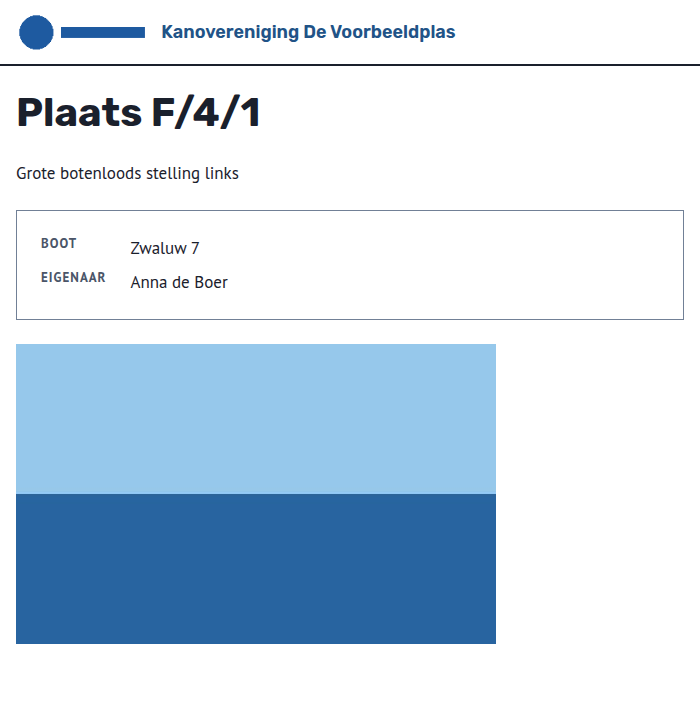
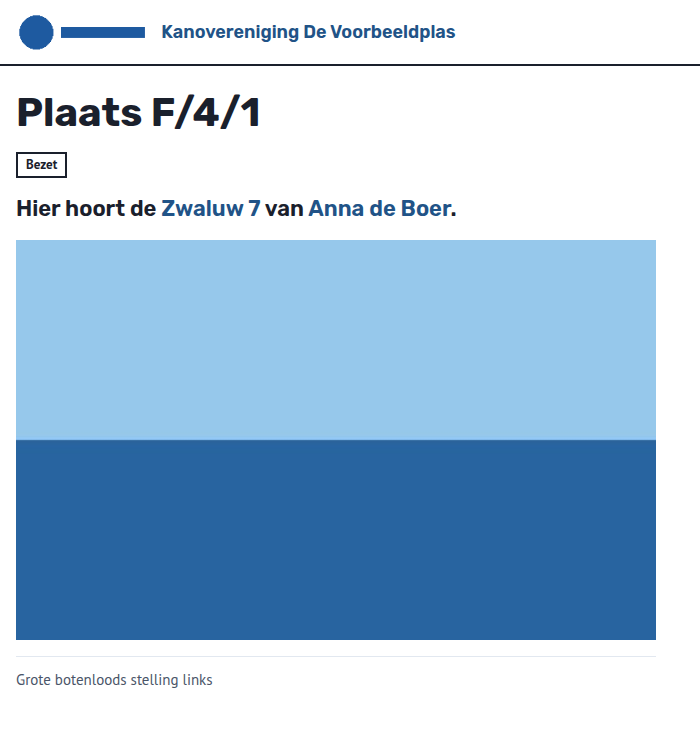
Blok 2 van het nieuwe ontwerp: openbare plaatspagina (issue #150 deel 2, BV-45, BV-59) (#171)
Variant C "Antwoord eerst": label met de toestand, de zin "Hier hoort de
<boot> van <eigenaar>.", foto en de omschrijving van het rek zonder label.
Logo zonder link, geen skiplink, menu of zoekveld op deze pagina. Een
clubplaats zonder boot toont "Clubplaats" en "Deze plaats is voor een
clubboot." (BV-59); openbaar() levert daarvoor het veld clubplaats.
Leidend ontwerp: designsystem ade1952, getoetst door Design System.

Tests: unit 985 geslaagd, E2E 41 geslaagd, 0 overgeslagen.
Review: Sentinel, akkoord.

diff --git a/app/web/templates/openbaar.html b/app/web/templates/openbaar.html
@@ -1,22 +1,29 @@
 {% extends "base.html" %}
-{# Openbaar: alleen plaatscode, omschrijving van het rek, boot, foto en naam van de eigenaar. Geen log (BLB-020, BLB-025). #}
+{# Openbaar: alleen plaatscode, omschrijving van het rek, boot, foto en naam van de eigenaar. Geen log (BLB-020, BLB-025).
+   Antwoord eerst (BV-45): de kop heeft geen link, skiplink of menu, want er is niets over te slaan. #}
 {% block csrf %}{% endblock %}
+{% block skiplink %}{% endblock %}
+{% block menu %}{% endblock %}
+{% block logo %}<span class="dj-logo">{% if logo %}<img class="bl-logo" src="{{ url_for('web.logo', kenmerk=logo) }}" alt="">{% endif %}{{ vereniging }}</span>{% endblock %}
 {% block titel %}{{ 'Plaats ' ~ plaats.code if plaats else 'Niet gevonden' }} · {{ vereniging }}{% endblock %}
 {% block inhoud %}
 {% if not plaats %}
+<div class="bl-plaats">
 <h1>Deze pagina bestaat niet</h1>
 <p>Controleer de link of scan de QR-code opnieuw.</p>
+</div>
 {% else %}
+<div class="bl-plaats{% if plaats.foto %} bl-plaats--foto{% endif %}">
 <h1>Plaats {{ plaats.code }}</h1>
-{% if plaats.omschrijving %}<p>{{ plaats.omschrijving }}</p>{% endif %}
-{% if plaats.vrij %}
-<p>Deze plaats is vrij.</p>
-{% else %}
-<dl class="dj-dl kaart">
-  <dt>Boot</dt><dd>{{ plaats.boot }}</dd>
-  <dt>Eigenaar</dt><dd>{{ vereniging if plaats.clubboot else plaats.eigenaar }}</dd>
-</dl>
-{% if plaats.foto %}<img class="foto" src="{{ url_for('web.afbeelding', sleutel=plaats.foto) }}" alt="Foto van {{ plaats.boot }}">{% endif %}
-{% endif %}
+{% if plaats.clubboot or plaats.clubplaats %}<span class="ds-tag">Clubplaats</span>
+{% elif plaats.vrij %}<span class="ds-tag bl-tag--vrij">Vrij</span>
+{% else %}<span class="ds-tag">Bezet</span>{% endif %}
+{% if plaats.vrij and plaats.clubplaats %}<p class="bl-zin">Deze plaats is voor een clubboot.</p>
+{% elif plaats.vrij %}<p class="bl-zin">Deze plaats is vrij.</p>
+<p class="bl-vraag">Wil je een plaats in de loods? Vraag het de beheerder van de botenloods.</p>
+{% else %}<p class="bl-zin">Hier hoort de <strong>{{ plaats.boot }}</strong> van <strong>{{ vereniging if plaats.clubboot else plaats.eigenaar }}</strong>.</p>{% endif %}
+{% if plaats.foto %}<img class="bl-plaatsfoto" src="{{ url_for('web.afbeelding', sleutel=plaats.foto) }}" alt="Foto van {{ plaats.boot }}">{% endif %}
+{% if plaats.omschrijving %}<p class="bl-rekregel">{{ plaats.omschrijving }}</p>{% endif %}
+</div>
 {% endif %}
 {% endblock %}

diff --git a/app/web/static/stijl.css b/app/web/static/stijl.css
@@ -133,6 +133,22 @@ td form { gap: var(--space-2); }
   .bl-kop .dj-logo { gap: var(--space-3); font: var(--type-subheading); }
 }
 
+/* Openbare plaatspagina (blok 2, BV-45), uit blok-2/schermen.css van het designsystem (ade1952): de zin eerst, daarna foto en rekregel.
+   Zonder foto een smalle kolom; vanaf 60rem staat de foto naast de zin, en de rij onder de zin neemt de overige hoogte. */
+.bl-plaats { display: grid; gap: var(--space-4); max-width: 40rem; }
+.bl-plaats > * { min-width: 0; margin-block: 0; }
+.bl-tag--vrij { border-color: var(--success); background: var(--success-tint); color: var(--success); }
+.bl-zin { font: var(--type-heading); }
+.bl-zin strong { color: var(--brand); font-weight: inherit; }
+.bl-plaatsfoto { display: block; width: 100%; max-height: 32rem; object-fit: contain; border-radius: var(--radius-surface); }
+.bl-vraag { padding: var(--space-3) var(--space-4); border-left: var(--stroke-4) solid var(--brand); background: var(--accent-tint); font: var(--type-body-sm); }
+.bl-rekregel { padding-top: var(--space-3); border-top: var(--stroke-1) solid var(--line); color: var(--ink-muted); font: var(--type-body-sm); }
+@media (width >= 60rem) {
+  .bl-plaats--foto { grid-template-columns: minmax(0, 1fr) minmax(0, 1fr); grid-template-rows: repeat(3, auto) 1fr; align-items: start; column-gap: var(--space-6); max-width: none; }
+  .bl-plaats--foto > * { grid-column: 1; }
+  .bl-plaats--foto > .bl-plaatsfoto { grid-column: 2; grid-row: 1 / span 4; }
+}
+
 /* Kaartjes (BLB-021, ADR-011): acht per A4, twee kolommen van 95 mm bij vier rijen van 68 mm,
    binnen een marge van 10 mm. De stippellijn is de snijlijn. Een blad is één A4. Altijd licht. */
 @page { size: A4; margin: 10mm; }

diff --git a/app/web/templates/base.html b/app/web/templates/base.html
@@ -13,11 +13,11 @@
   <link rel="stylesheet" href="{{ url_for('static', filename='stijl.css') }}">
 </head>
 <body>
-  <a class="dj-skip sla-over" href="#inhoud">Naar de inhoud</a>
+  {% block skiplink %}<a class="dj-skip sla-over" href="#inhoud">Naar de inhoud</a>{% endblock %}
   <header class="dj-header bl-kop">
     <div class="dj-container dj-header__bar">
-      <a class="dj-logo" href="{{ url_for('web.start') }}">{% if logo %}<img class="bl-logo" src="{{ url_for('web.logo', kenmerk=logo) }}" alt="">{% endif %}{{ vereniging }}</a>
-      {% if g.beheerder %}
+      {% block logo %}<a class="dj-logo" href="{{ url_for('web.start') }}">{% if logo %}<img class="bl-logo" src="{{ url_for('web.logo', kenmerk=logo) }}" alt="">{% endif %}{{ vereniging }}</a>{% endblock %}
+      {% block menu %}{% if g.beheerder %}
       {# De groepen van BV-42; de volgorde binnen een groep is die van het ontwerp, de namen zijn ongewijzigd. #}
       {% set menu = [
         ("Dagelijks", [("web.rekoverzicht", "Rekoverzicht"), ("web.indeling_overzicht", "Indeling"), ("web.vrije_plaatsen", "Vrije plaatsen"),
@@ -49,7 +49,7 @@
           {% endfor %}
         </nav>
       </details>
-      {% endif %}
+      {% endif %}{% endblock %}
     </div>
   </header>
   <main class="dj-container bl-main" id="inhoud">

diff --git a/tests/unit/test_openbaar_pagina.py b/tests/unit/test_openbaar_pagina.py
@@ -1,0 +1,111 @@
+"""Blok 2 van het nieuwe ontwerp (issue #150, BV-45): de openbare plaatspagina, antwoord eerst.
+Elke toestand heeft een label en een zin; kop zonder link, skiplink en menu; invoer blijft geëscapet."""
+
+import pytest
+
+from app.domein import CLI, boten, toewijzing
+from app.models import db
+from tests.unit.hulp import beheerder_met_wachtwoord, lid, plaats, png
+from tests.unit.test_web import inloggen
+
+VRAAG = "Wil je een plaats in de loods?"
+
+
+def pagina(client, p):
+    return client.get(f"/p/{p.publieke_sleutel}").text
+
+
+def bezet(code="A/1/1", boot="Zeemeeuw", eigenaar="Anna de Vries", club=False, foto=None):
+    p = plaats(code, club=club)
+    eigenaar_id = None if club else lid(naam=eigenaar).id
+    toewijzing.toewijzen(p.id, boten.boot_aanmaken(boot, 1, eigenaar_id, foto, CLI).id, CLI)
+    return p
+
+
+def rekregel(p, tekst):
+    p.rek.omschrijving = tekst
+    db.session.commit()
+
+
+def test_bezet_label_zin_en_foto(client):
+    # Mutant: een andere zin, een boot of eigenaar buiten <strong>, of de foto weglaten valt hier.
+    html = pagina(client, bezet(foto=png()))
+    assert "<h1>Plaats A/1/1</h1>" in html
+    assert '<span class="ds-tag">Bezet</span>' in html
+    assert 'Hier hoort de <strong>Zeemeeuw</strong> van <strong>Anna de Vries</strong>.' in html
+    assert 'class="bl-plaatsfoto"' in html and 'alt="Foto van Zeemeeuw"' in html
+    assert "bl-plaats bl-plaats--foto" in html
+    assert VRAAG not in html and "bl-tag--vrij" not in html
+
+
+def test_bezet_zonder_foto_geen_img_en_geen_fotokolom(client):
+    # Mutant: de img of de modifier ook zonder foto zetten valt hier.
+    html = pagina(client, bezet())
+    assert "<img" not in html.split("<main", 1)[1] and "bl-plaats--foto" not in html
+
+
+def test_clubboot_is_clubplaats_met_de_vereniging_als_eigenaar(client):
+    # Mutant: het label Bezet bij een clubboot, of de naam van het lid i.p.v. de vereniging, valt hier.
+    html = pagina(client, bezet(club=True))
+    assert '<span class="ds-tag">Clubplaats</span>' in html
+    assert 'Hier hoort de <strong>Zeemeeuw</strong> van <strong>Botenloods</strong>.' in html
+    assert VRAAG not in html
+
+
+def test_vrije_plaats_label_zin_en_vraag(client):
+    # Mutant: de vraag weglaten of het label zonder bl-tag--vrij valt hier.
+    html = pagina(client, plaats())
+    assert '<span class="ds-tag bl-tag--vrij">Vrij</span>' in html
+    assert "Deze plaats is vrij." in html and "Hier hoort" not in html
+    assert f'<p class="bl-vraag">{VRAAG} Vraag het de beheerder van de botenloods.</p>' in html
+    assert "<img" not in html.split("<main", 1)[1]
+
+
+def test_vrije_clubplaats_zegt_dat_ze_voor_een_clubboot_is(client):
+    # Besluit stakeholder 2026-11-07. Mutant: de vlag clubplaats negeren geeft "Vrij" en de vraag.
+    html = pagina(client, plaats(club=True))
+    assert '<span class="ds-tag">Clubplaats</span>' in html
+    assert "Deze plaats is voor een clubboot." in html
+    assert VRAAG not in html and "Deze plaats is vrij." not in html and "bl-tag--vrij" not in html
+
+
+def test_rekregel_zonder_label_en_alleen_met_omschrijving(client):
+    # Mutant: een label "Rek" ervoor, of een lege regel zonder omschrijving, valt hier.
+    p = plaats()
+    assert "bl-rekregel" not in pagina(client, p)
+    rekregel(p, "Stelling links")
+    assert '<p class="bl-rekregel">Stelling links</p>' in pagina(client, p)
+
+
+def test_kop_zonder_link_skiplink_menu_en_zoekveld(client):
+    # Mutant: de skiplink, het menu of de link om het logo terugzetten valt hier.
+    p = plaats()
+    _b, geheim = beheerder_met_wachtwoord()
+    anoniem = pagina(client, p)
+    inloggen(client, geheim)
+    ingelogd = pagina(client, p)
+    for html in (anoniem, ingelogd):
+        kop = html.split("<header", 1)[1].split("</header>", 1)[0]
+        assert "<a " not in kop and '<span class="dj-logo">' in kop
+        assert "dj-skip" not in html and "<details" not in html and "<nav" not in html
+        assert "<input" not in html and "<form" not in html
+        assert 'id="inhoud"' in html
+    assert "dj-skip" in client.get("/").text and "<details" in client.get("/").text  # elders ongewijzigd
+
+
+@pytest.mark.parametrize("veld", ["boot", "eigenaar", "omschrijving"])
+def test_invoer_wordt_geescaped(client, veld):
+    # Mutant: |safe op boot, eigenaar of omschrijving valt hier.
+    p = bezet(boot="<b>x</b>" if veld == "boot" else "Zeemeeuw",
+              eigenaar="<b>x</b>" if veld == "eigenaar" else "Anna de Vries")
+    rekregel(p, "<b>x</b>" if veld == "omschrijving" else "Stelling")
+    html = pagina(client, p)
+    assert "<b>x</b>" not in html and "&lt;b&gt;x&lt;/b&gt;" in html
+
+
+def test_onbekende_plaats_geeft_404_met_uitleg(client):
+    r = client.get("/p/bestaatniet")
+    assert r.status_code == 404
+    assert "<h1>Deze pagina bestaat niet</h1>" in r.text
+    assert "Controleer de link of scan de QR-code opnieuw." in r.text
+    assert "dj-skip" not in r.text and '<span class="dj-logo">' in r.text

diff --git a/tests/e2e/test_loods.py b/tests/e2e/test_loods.py
@@ -152,6 +152,9 @@ def test_indeling_boot_toewijzen_log_en_openbare_pagina(page):
     expect(page.get_by_text(bootnaam)).to_be_visible()
     expect(page.get_by_text(prive["naam"], exact=True)).to_be_visible()
     expect(page.get_by_role("img", name=f"Foto van {bootnaam}")).to_be_visible()
+    expect(page.locator("span.ds-tag")).to_have_text("Bezet")
+    expect(page.locator("p.bl-zin")).to_have_text(f"Hier hoort de {bootnaam} van {prive['naam']}.")
+    expect(page.locator("header a, header details, header input, .dj-skip")).to_have_count(0)  # BV-45: logo zonder link
     expect(page.locator("section.log")).to_have_count(0)
     html = page.content()
     for veld in ("lidnummer", "adres", "telefoon", "email"):
@@ -159,6 +162,7 @@ def test_indeling_boot_toewijzen_log_en_openbare_pagina(page):
 
     page.goto("/p/bestaatniet")
     expect(page.get_by_role("heading", level=1)).to_have_text("Deze pagina bestaat niet")
+    expect(page.locator("header a, .dj-skip")).to_have_count(0)
     page.goto("/indeling")
     expect(page).to_have_url(re.compile(r"/inloggen$"))
 
@@ -217,6 +221,12 @@ def test_plaats_wijzigen_vrijgeven_en_clubplaats(page):
     expect(page.get_by_text("De plaats is opgeslagen.")).to_be_visible()
     toewijzen_buiten_lijst(page, code, bootnaam)
     expect(page.get_by_role("alert")).to_contain_text("is een clubplaats en alleen voor clubboten")
+
+    # De vrije clubplaats zegt dat ze voor een clubboot is, zonder de vraag voor wie een plaats wil.
+    page.goto(openbare_link)
+    expect(page.locator("span.ds-tag")).to_have_text("Clubplaats")
+    expect(page.locator("p.bl-zin")).to_have_text("Deze plaats is voor een clubboot.")
+    expect(page.locator("p.bl-vraag")).to_have_count(0)
 
 
 def test_boot_wijzigen_en_weigeren_met_log(page):

diff --git a/tests/unit/test_web_beheer.py b/tests/unit/test_web_beheer.py
@@ -241,7 +241,7 @@ def test_omschrijving_op_openbare_pagina_plaatsdetail_en_kaartje(ingelogd, clien
     p = bezette_plaats()
     ingelogd.post(f"/rekken/{p.rek_id}/naam", data={"naam": "A", "omschrijving": "Stelling <b>links</b>"})
     openbaar = client.get(f"/p/{p.publieke_sleutel}").text
-    assert "<p>Stelling &lt;b&gt;links&lt;/b&gt;</p>" in openbaar
+    assert '<p class="bl-rekregel">Stelling &lt;b&gt;links&lt;/b&gt;</p>' in openbaar
     assert "Stelling &lt;b&gt;links&lt;/b&gt;" in ingelogd.get(f"/plaatsen/{p.id}").text
     kaartje = ingelogd.get(f"/kaartjes/print?plaats={p.id}").text
     assert "Stelling" not in kaartje
@@ -250,7 +250,7 @@ def test_omschrijving_op_openbare_pagina_plaatsdetail_en_kaartje(ingelogd, clien
 
 def test_zonder_omschrijving_geen_lege_regel(ingelogd, client):
     p = bezette_plaats()
-    assert "<p></p>" not in client.get(f"/p/{p.publieke_sleutel}").text
+    assert "bl-rekregel" not in client.get(f"/p/{p.publieke_sleutel}").text
 
 
 def test_openbare_pagina_zet_geen_sessiecookie(client):

diff --git a/tests/unit/test_indeling_en_toewijzing.py b/tests/unit/test_indeling_en_toewijzing.py
@@ -261,12 +261,12 @@ def test_lid_met_opzegdatum_in_de_toekomst_krijgt_een_plaats(app):
 def test_openbaar_geeft_alleen_openbare_velden(app):
     p = plaats()
     assert indeling.openbaar(p.publieke_sleutel) == {
-        "code": "A/1/1", "omschrijving": "", "vrij": True, "clubboot": False, "boot": None, "foto": None,
+        "code": "A/1/1", "omschrijving": "", "vrij": True, "clubboot": False, "clubplaats": False, "boot": None, "foto": None,
         "eigenaar": None}
     b = boot(lid().id, foto=png())
     toewijzing.toewijzen(p.id, b.id, CLI)
     assert indeling.openbaar(p.publieke_sleutel) == {
-        "code": "A/1/1", "omschrijving": "", "vrij": False, "clubboot": False, "boot": "Zeemeeuw",
+        "code": "A/1/1", "omschrijving": "", "vrij": False, "clubboot": False, "clubplaats": False, "boot": "Zeemeeuw",
         "foto": b.afbeelding.sleutel, "eigenaar": "Anna de Vries"}
     assert indeling.openbaar("bestaatniet") is None
 

diff --git a/app/domein/indeling.py b/app/domein/indeling.py
@@ -544,6 +544,7 @@ def openbaar(publieke_sleutel):
     opgehaald, kan ook niet in de pagina terechtkomen. None als de plaats niet bestaat.
 
     eigenaar is None bij een vrije plaats en bij een clubboot (dan de naam van de vereniging).
+    clubplaats volgt Plaats.is_clubplaats, ook als de plaats vrij is.
     """
     p = db.session.scalar(select(Plaats).where(Plaats.publieke_sleutel == publieke_sleutel))
     if p is None:
@@ -554,6 +555,7 @@ def openbaar(publieke_sleutel):
         "omschrijving": p.rek.omschrijving,
         "vrij": boot is None,
         "clubboot": boot is not None and boot.lid_id is None,
+        "clubplaats": p.is_clubplaats,
         "boot": boot.naam if boot else None,
         "foto": boot.afbeelding.sleutel if boot and boot.afbeelding else None,
         "eigenaar": boot.lid.naam if boot and boot.lid else None,

diff --git a/werk/terugblik/2026-11-07-prism-150-blok2.md b/werk/terugblik/2026-11-07-prism-150-blok2.md
@@ -1,0 +1,30 @@
+# Terugblik Prism, blok 2 van #150 (openbare plaatspagina, BV-45)
+
+Datum: 2026-11-07. Taak: de herziene pagina `/p/<sleutel>` bouwen volgens designsystem `ade1952`, met de clubplaats als besluit van de stakeholder.
+
+## Wat ging goed
+
+- De opdracht noemde de besluiten, de te raken bestanden en de omgeving vooraf. Daardoor was er geen vraag nodig.
+- Het README van blok 2 had eisen en E2E-asserts in één tabel; elke eis werd één unittest met een mutant.
+- De baseline op `main` vóór de eerste wijziging gaf één bekende rode test: `test_inloggen.py::test_vergrendeling_na_vijf_foute_wachtwoorden` (strict mode: twee `role=alert`, los van deze wijziging).
+
+## Wat kon beter
+
+- De baseline draaide ruim 15 minuten, en in die tijd kon ik de gemounte werkmap niet wijzigen. Ik heb de tijd gebruikt voor het schrijven van de unittests, maar een aparte worktree had dat sneller gemaakt.
+- Het screenshotscript maakt alle 30 afbeeldingen opnieuw; 7 moesten terug met `git checkout`.
+
+## Wat deed ik zelf goed
+
+- Een mutant per eis, met een script dat bind mounts gebruikt, zodat de draaiende stack niet geraakt werd. Eén mutant (`clubboot-label-bezet`) bleek gelijkwaardig: een clubboot ligt altijd op een clubplaats. Dat is erkend en niet als dekking geteld.
+- De foto-variant gecontroleerd op 360 en 1280 pixels met een tijdelijke afbeelding in de lokale database, daarna teruggezet en gecontroleerd.
+
+## Wat heb ik onderweg zelf verbeterd
+
+- `base.html` kreeg drie blokken (`skiplink`, `logo`, `menu`) in plaats van een voorwaarde op het eindpunt, zodat alleen `openbaar.html` ze overschrijft en andere schermen ongewijzigd blijven; een test borgt dat de skiplink en het menu elders blijven.
+- De 404-pagina kreeg dezelfde kop en `bl-plaats`-wrapper als de preview.
+
+## Wat kan structureel beter in de opdracht of de afspraken
+
+- Zet in de opdracht: "Een E2E-baseline op `main` blokkeert de werkmap tot ze klaar is (circa 15 minuten); noem of de bouwer een worktree of de wachttijd moet gebruiken."
+- Zet in de opdracht: "Noem hoe de bouwer een foto aan een plaats koppelt voor een visuele controle: de lokale seed bevat geen bezette plaats met foto, en de afbeeldingssleutel is hoogstens 16 tekens."
+- Zet in de afspraken: "`documentatie/gebruikers/schermafbeeldingen.sh` maakt alle afbeeldingen opnieuw; de opdracht noemt de enige afbeelding die mag blijven."

diff --git a/werk/terugblik/2026-11-07-sentinel-150-blok2.md b/werk/terugblik/2026-11-07-sentinel-150-blok2.md
@@ -1,0 +1,21 @@
+# Terugblik Sentinel, review blok 2 van issue #150 (openbare plaatspagina)
+
+Datum: 2026-11-07. Taak: review van de gestagede diff op `feature/150-blok2`.
+
+## Wat ging goed
+- De eisen in `blok-2/README.md` (eis 1 tot 5) en BV-59 waren concreet genoeg om elke regel van het sjabloon tegen af te vinken.
+- De mutantspecificaties van de bouwer waren direct herbruikbaar; met een bind mount waren zeven mutanten in een paar minuten gedraaid.
+- Unitsuite (985 geslaagd), ruff en de volledige E2E-run (41 geslaagd) liepen zonder storing.
+
+## Wat kon beter
+- Ik wachtte eerst op een melding van de monitor. Mijn `pgrep -f "tests/e2e/draai.sh"` trof ook de opdrachtregel van de monitor zelf, dus de wachtlus eindigde nooit. Daardoor verloor ik ongeveer tien minuten.
+
+## Wat deed ik zelf goed
+- Naast de mutanten van de bouwer heb ik drie eigen mutanten gedraaid: het csrf-blok terug, een lege `alt` en de vraag bij een bezette plaats. Alle drie vallen. De eerste valt alleen in `test_web_beheer.py`, dus ik draaide hem bewust tegen beide bestanden.
+- De selectie van de E2E-scenario's vooraf gecontroleerd met `--collect-only` (drie tests, één extra openbare-paginatest).
+
+## Wat heb ik onderweg zelf verbeterd
+- Na de aanwijzing van de regie heb ik gestopt met wachten op meldingen en het logbestand zelf gelezen.
+
+## Wat kan structureel beter in de opdracht of de afspraken
+- Zet in de opdracht: wacht op een achtergrondrun met het uitvoerbestand van de taak of met `pgrep -fx`, nooit met `pgrep -f <script>` in een lus, want die vindt zijn eigen opdrachtregel.

diff --git a/documentatie/gebruikers/handleiding.md b/documentatie/gebruikers/handleiding.md
@@ -212,7 +212,7 @@ De QR-code opent de openbare pagina van de plaats. Krijgt het rek een andere naa
 
 ## De openbare pagina
 
-Elke plaats heeft een openbare pagina op `/p/` met een lange, niet te raden sleutel. Je vindt de link op de pagina van de plaats, onder **Openbare pagina**. Wie de link opent, hoeft niet in te loggen en ziet de aanduiding van de plaats, de omschrijving van het rek en of de plaats vrij is, of anders de boot, de eigenaar (bij een clubboot de vereniging) en de foto. Er is geen zoekfunctie en er staan geen adresgegevens op. De pagina gebruikt de naam en het logo van de vereniging.
+Elke plaats heeft een openbare pagina op `/p/` met een lange, niet te raden sleutel. Je vindt de link op de pagina van de plaats, onder **Openbare pagina**. Wie de link opent, hoeft niet in te loggen. De pagina begint met de aanduiding van de plaats en een label: **Bezet**, **Clubplaats** of **Vrij**. Daaronder staat de zin "Hier hoort de boot van eigenaar", bij een clubboot met de vereniging als eigenaar, met de foto van de boot ernaast of eronder. Een vrije plaats zegt dat ze vrij is en wijst wie een plaats wil naar de beheerder. Een vrije clubplaats zegt dat ze voor een clubboot is. Onderaan staat de omschrijving van het rek, als die er is. Er is geen zoekfunctie, geen menu en geen link vanaf het logo, en er staan geen adresgegevens op. De pagina gebruikt de naam en het logo van de vereniging.
 
 ![De openbare pagina van een plaats met boot, eigenaar en foto.](afbeeldingen/openbaar.png)
 

diff --git a/docs/architecture/adr/ADR-003-plaatsen-stabiele-identiteit.md b/docs/architecture/adr/ADR-003-plaatsen-stabiele-identiteit.md
@@ -88,7 +88,7 @@ Migratie `0013` volgt op `0012` en is de enige head. Upgrade: trek DELETE op `ve
 - Het rekoverzicht (BLB-044) toont per rek zoveel kolommen als het hoogste vaknummer en zoveel verdiepingen als de hoogste verdieping met een plaats. De CSP staat geen inline `style` toe, dus het aantal kolommen is een CSS-klasse (`raster-rek-1` tot en met `raster-rek-12`).
 - Een bezoeker kan een plaats niet op aanduiding opzoeken. Dat is besloten: de openbare pagina is alleen via de QR-link te openen (intake, besluit stakeholder 2026-10-30).
 - Een publieke sleutel opnieuw genereren is bewust geen functie. Is een sleutel ooit ongewenst bekend, dan is dat geen probleem: de pagina is openbaar.
-- De openbare pagina gebruikt een eigen leesfunctie die alleen de aanduiding, de omschrijving van het rek, bootnaam, foto-URL en naam van de eigenaar (of de naam van de vereniging bij een clubboot) ophaalt. De E2E-test controleert het volledige antwoord op afwezigheid van adres, telefoon, e-mail en lidnummer.
+- De openbare pagina gebruikt een eigen leesfunctie die alleen de aanduiding, de omschrijving van het rek, bootnaam, foto-URL, naam van de eigenaar (of de naam van de vereniging bij een clubboot) en de vlag clubplaats ophaalt. De E2E-test controleert het volledige antwoord op afwezigheid van adres, telefoon, e-mail en lidnummer.
 - Foto's op de openbare pagina hebben een eigen willekeurige sleutel (ADR-008), zodat ze ook niet op te tellen zijn.
 
 ## Wijzigingslog
